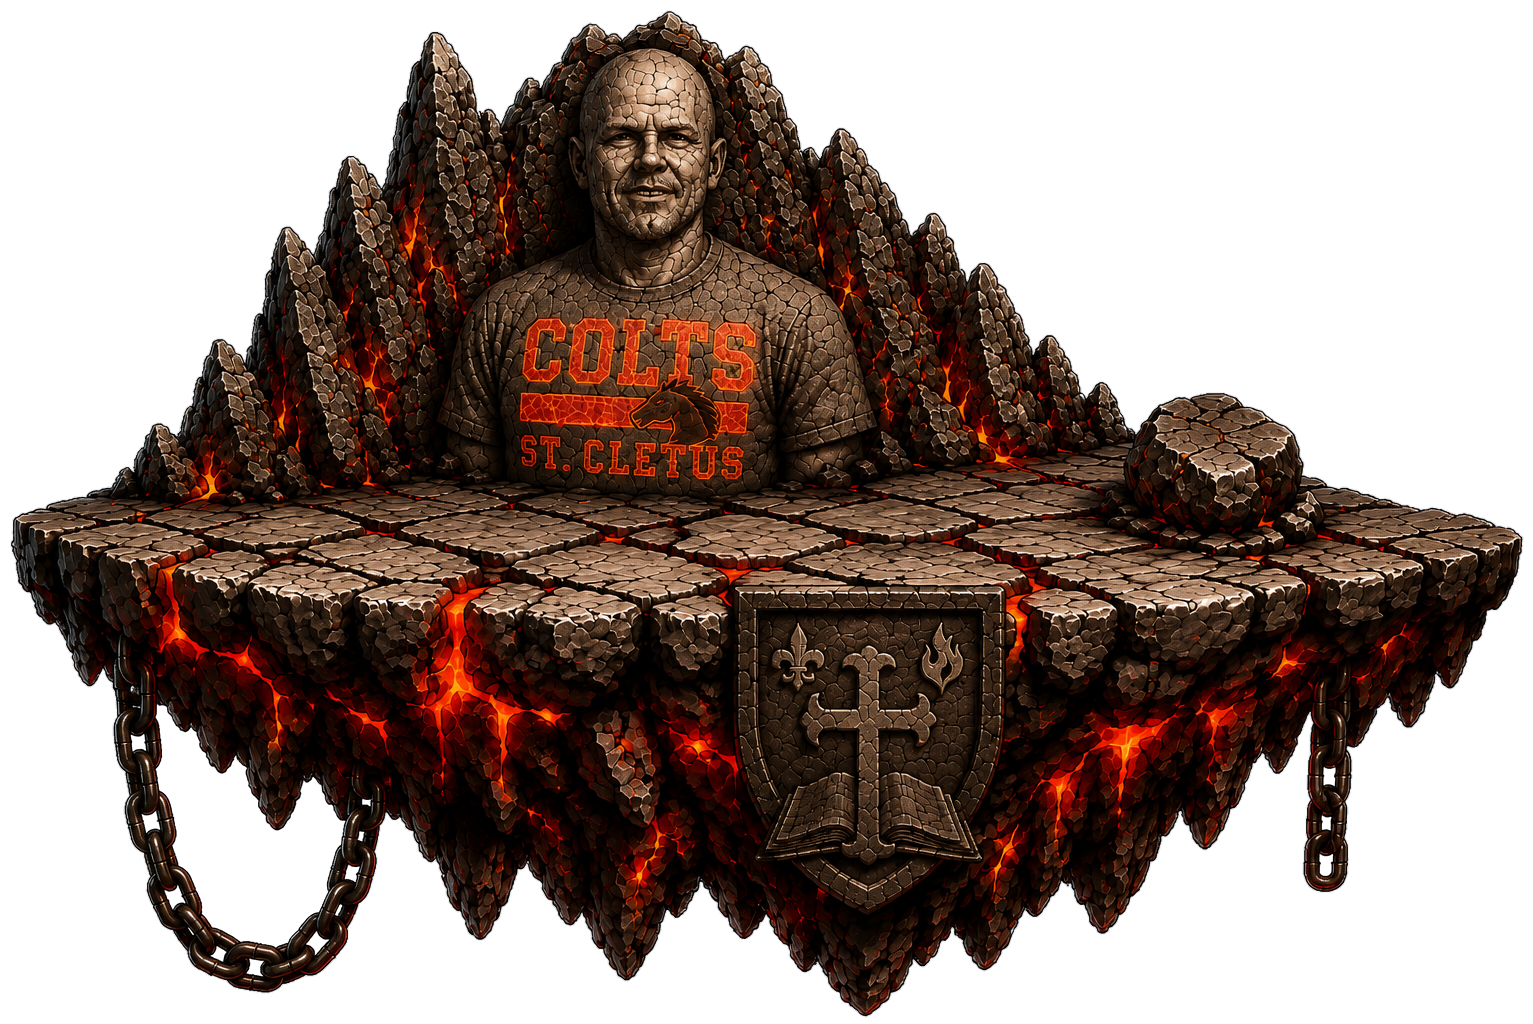
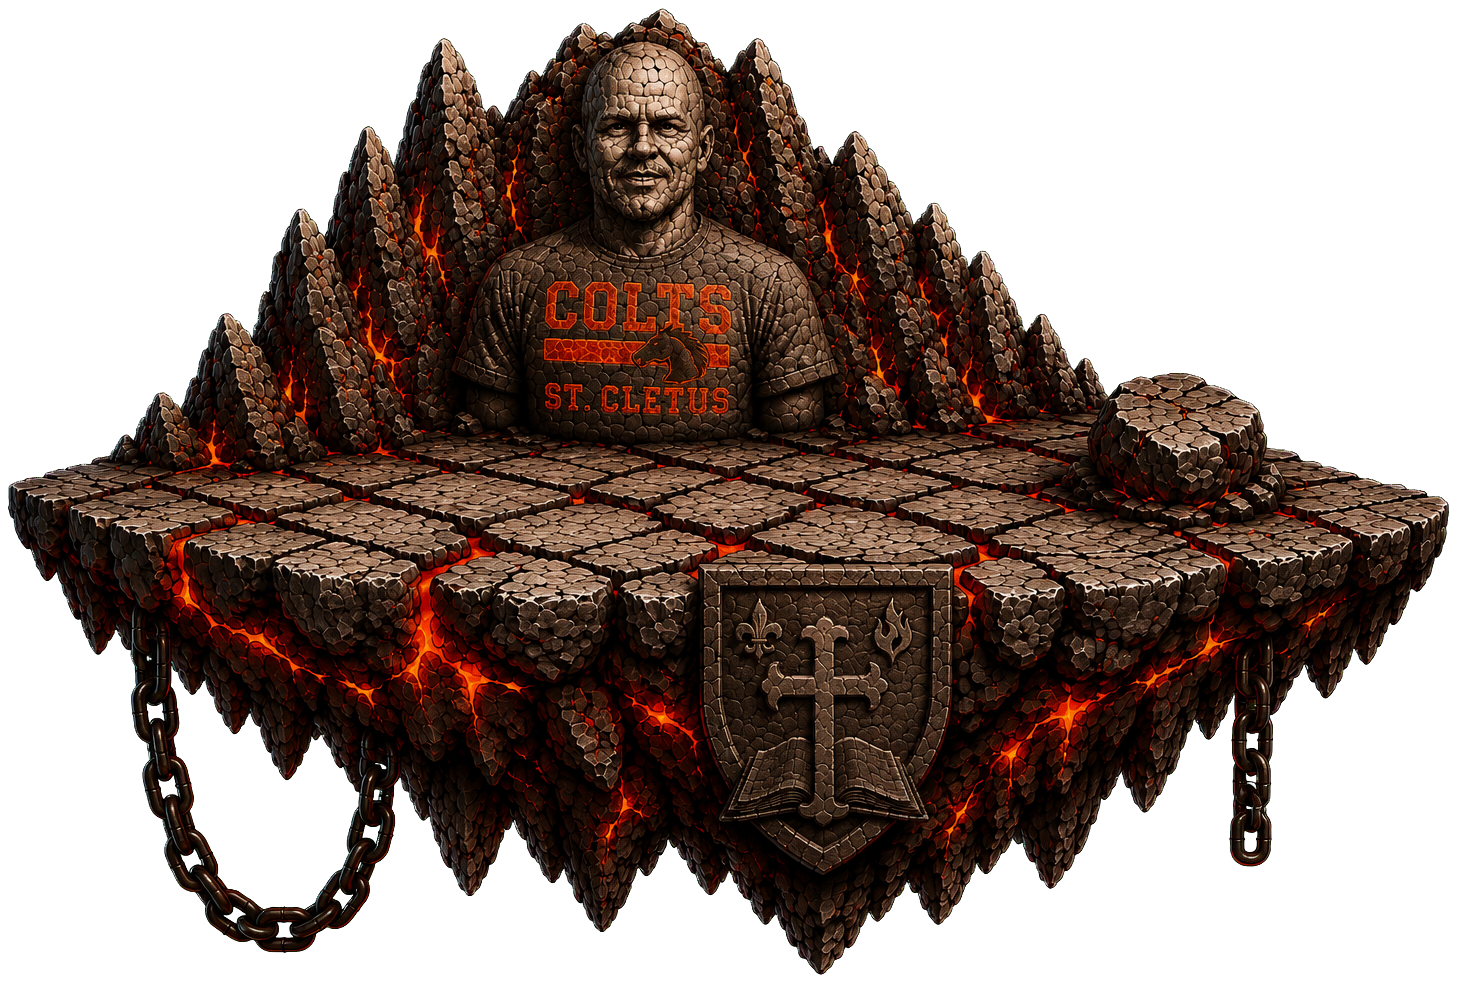
Replace Colt Run platform 14

diff --git a/app.js b/app.js
@@ -2050,6 +2050,7 @@ function startColtRunGame() {
   platformAssetVersions[3] = "20260718-platform04-replace1";
   platformAssetVersions[4] = "20260718-platform05-replace1";
   platformAssetVersions[8] = "20260718-platform09-replace1";
+  platformAssetVersions[13] = "20260718-platform14-replace1";
   platformAssetVersions[14] = "20260718-platform15-replace1";
   platformAssetVersions[17] = "20260718-platform18-replace1";
   platformAssetVersions[20] = "20260718-platform21-replace1";

diff --git a/index.html b/index.html
@@ -8,7 +8,7 @@
 </head>
 <body>
   <main id="app" class="app-shell"></main>
-  <script src="app.js?v=20260718-platform18-replace1"></script>
+  <script src="app.js?v=20260718-platform14-replace1"></script>
 </body>
 </html>
 
